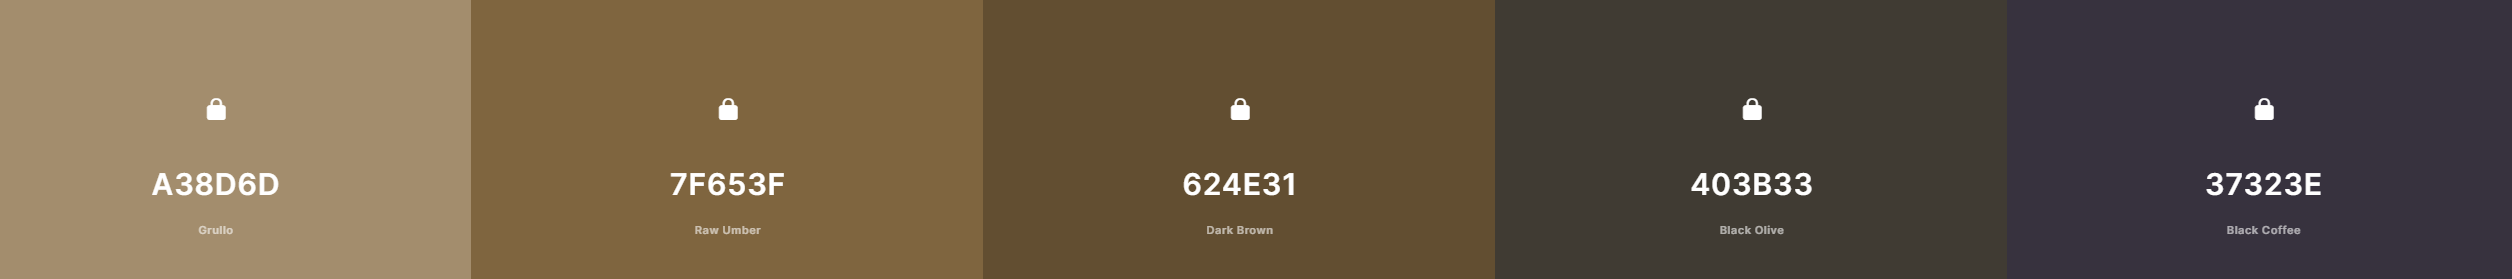
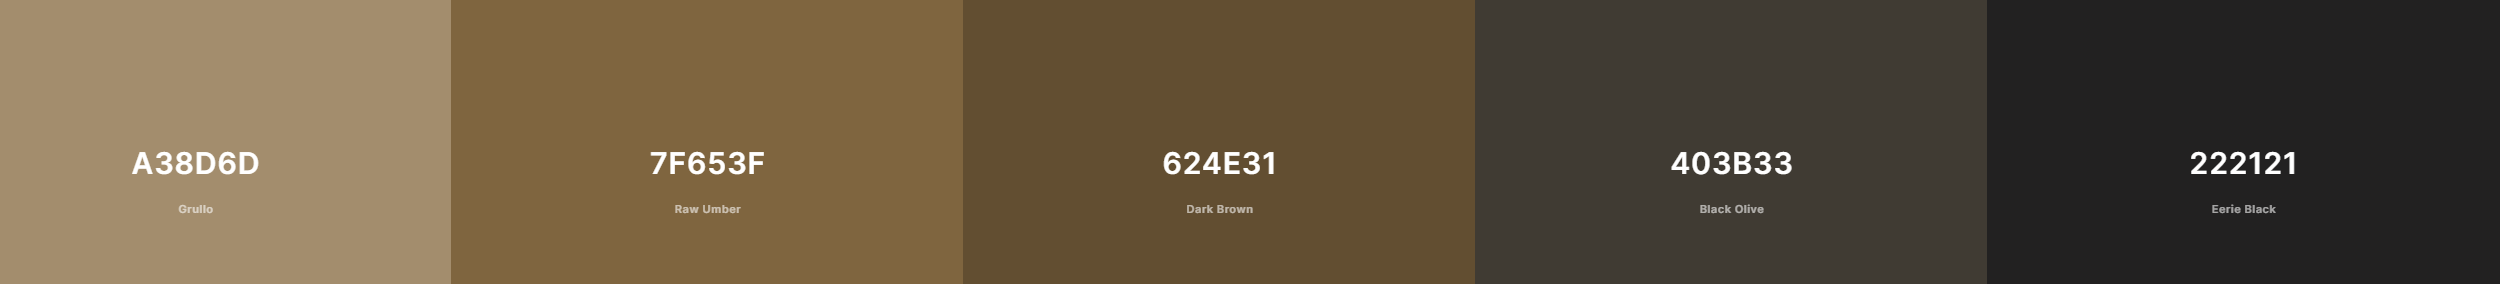
updated palette

diff --git a/src/layouts/mainLayout.tsx b/src/layouts/mainLayout.tsx
@@ -15,7 +15,7 @@ const PageContainer = styled.div`
 `
 
 const PageWrapper = styled.div`
-  background-color: #000000;
+  background-color: #37323E;
   color: #A38D6D;
   font-family: 'Lato';
 `
